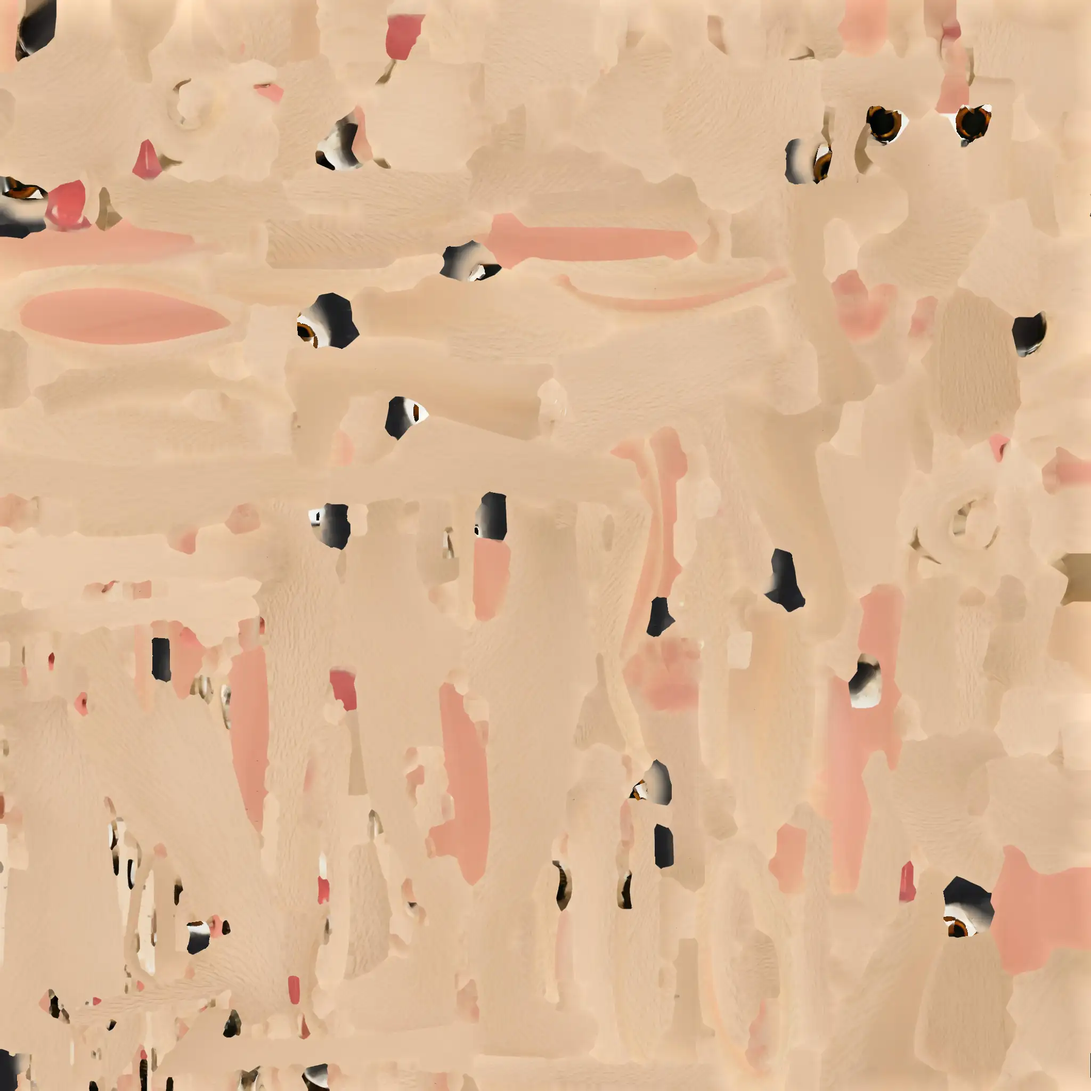
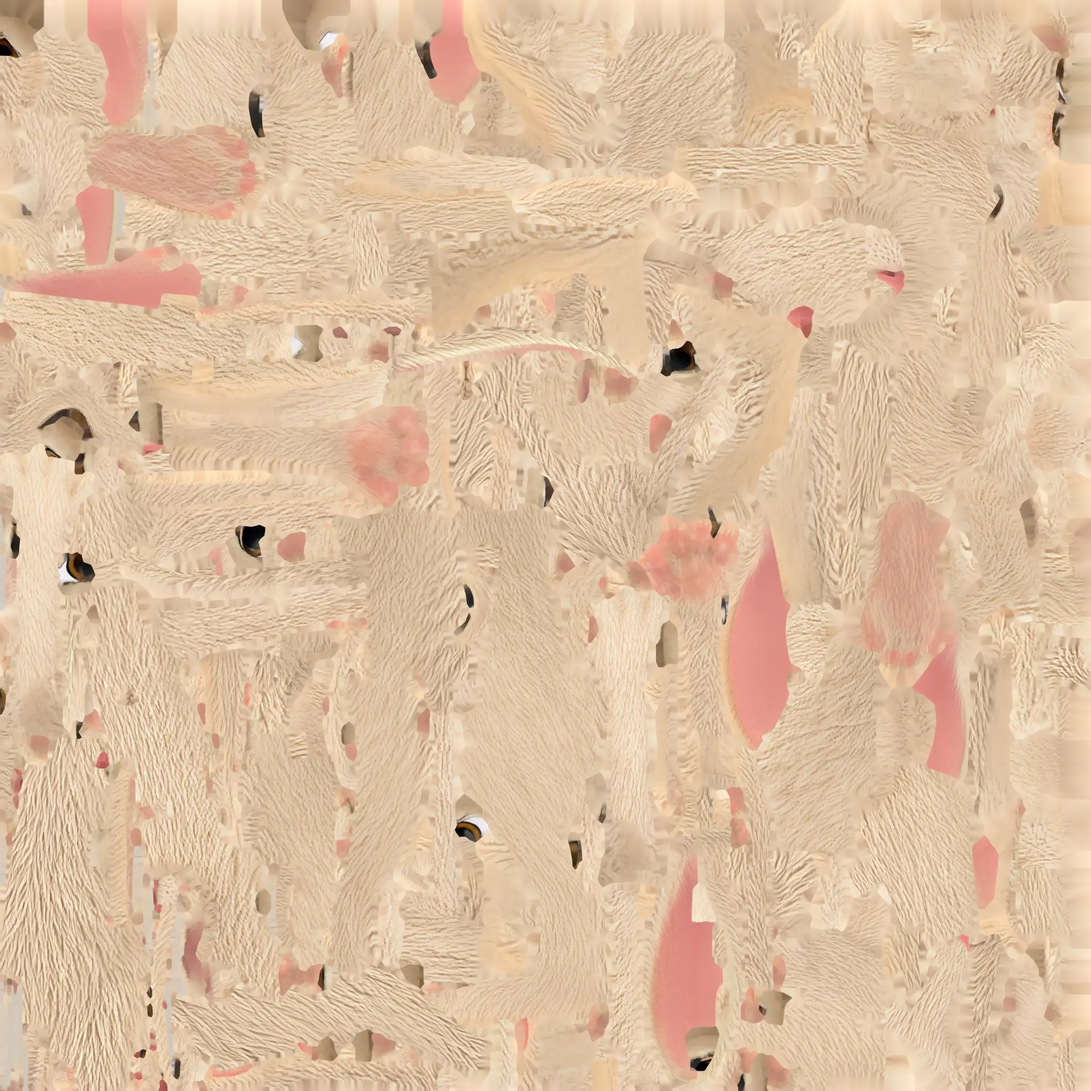
refactor(tools): write the rabbit maps as the wolf maps, with no gaze shift
The map tool of the rabbit is now the map tool of the Tripo wolf: the
source color map at 2048 pixels with no color change, and the fur normal
map. The third Tripo rabbit keeps the iris place of its source, because a
gaze shift mirrored the low right iris of the source into a white seam.

Size: the color map grows from 69,624 to 251,776 bytes, because the new
source paints finer fur. It loads after the first frame.

diff --git a/tools/rabbit-maps.py b/tools/rabbit-maps.py
@@ -1,11 +1,9 @@
 # Writes the web color map and the web normal map of the Tripo rabbit from the maps of its FBX
 # (design 4.5, assets/models/rabbit/README.md, "Color map" and "Normal map"). The color map is the
 # source image at 2048 pixels, with no change of a color: the fur, the brows, and the eye paint
-# stay as the FBX shows them, as on the Tripo wolf (tools/wolf-maps.py). The only change is the
-# gaze shift of tools/gaze_shift.py, which moves each painted iris with its pupil as one decal on
-# its ball. The normal map limits each tilt of the source, scales it to 1024 pixels, and stores the
-# tilts times NORMAL_MAP_GAIN of src/scene/fur.ts. The output depends only on the input files and on
-# cwebp 1.5.0.
+# stay as the FBX shows them. The normal map limits each tilt of the source, scales it to 1024
+# pixels, and stores the tilts times NORMAL_MAP_GAIN of src/scene/fur.ts. The output depends only on
+# the input files and on cwebp 1.5.0.
 #
 # Usage: uv run --no-project --with numpy==2.5.4 --with pillow==13.0.0 python -I tools/rabbit-maps.py
 import os
@@ -16,12 +14,8 @@ import tempfile
 import numpy as np
 from PIL import Image
 
-sys.path.insert(0, os.path.dirname(os.path.abspath(__file__)))
-import gaze_shift  # noqa: E402
-
 SOURCE = 'assets/models/rabbit/tripo-p2/rabbit.fbm/rabbit_basecolor.jpg'
 NORMAL_SOURCE = 'assets/models/rabbit/tripo-p2/rabbit.fbm/rabbit_normal.jpg'
-RIG = 'assets/models/rabbit/tripo-hand/rabbit.rig.glb'
 COLOR_OUT = 'assets/models/rabbit/tripo-hand/rabbit-color.webp'
 NORMAL_OUT = 'assets/models/rabbit/tripo-hand/rabbit-normal.webp'
 SIZE = 2048
@@ -31,22 +25,11 @@ QUALITY = 60
 #: (`NORMAL_MAP_GAIN` of src/scene/fur.ts). A larger tilt is a baked edge of the source mesh.
 NORMAL_LIMIT = 0.2
 NORMAL_GAIN = 4
-#: The gaze shift of the eyes (tools/gaze_shift.py): the view in degrees above the forward axis of
-#: the head of the seated bind in which each iris lies in the middle of its eye opening, and the
-#: turn of each target out and up from that middle, in degrees. The source paints no lash line, so
-#: the old place of each iris takes white up to the edge of the opening.
-VIEW_DOWN = 30.0
-GAZE_OUT = 6.0
-GAZE_UP = 0.0
-LASH_LINE = False
 
 
 def color_map():
-    """Writes the color map: the source scaled to SIZE (Lanczos) with the gaze shift, WebP quality
-    QUALITY, method 6."""
+    """Writes the color map: the source scaled to SIZE (Lanczos), WebP quality QUALITY, method 6."""
     image = Image.open(SOURCE).convert('RGB').resize((SIZE, SIZE), Image.LANCZOS)
-    rig = gaze_shift.read_rig(RIG)
-    image = gaze_shift.shift_gaze(rig, image, VIEW_DOWN, GAZE_OUT, GAZE_UP, LASH_LINE)
     image.save(COLOR_OUT, 'WEBP', quality=QUALITY, method=6)
     print(f'{COLOR_OUT}: {SIZE} x {SIZE}, {os.path.getsize(COLOR_OUT)} bytes')
 
